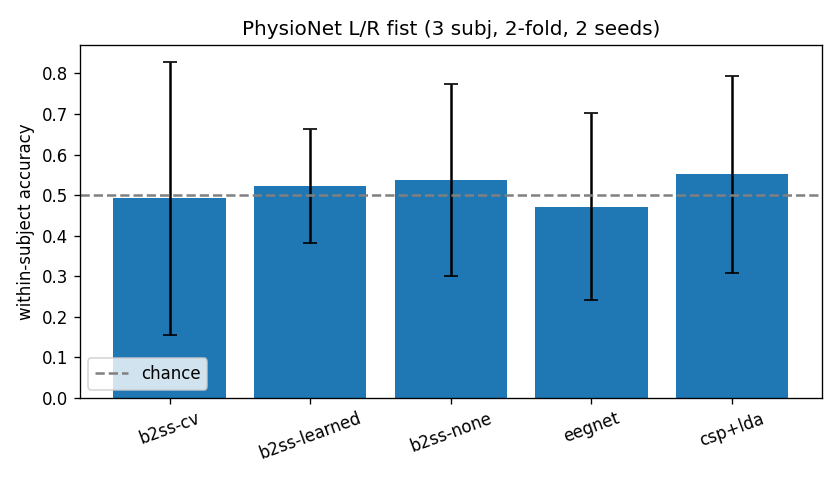
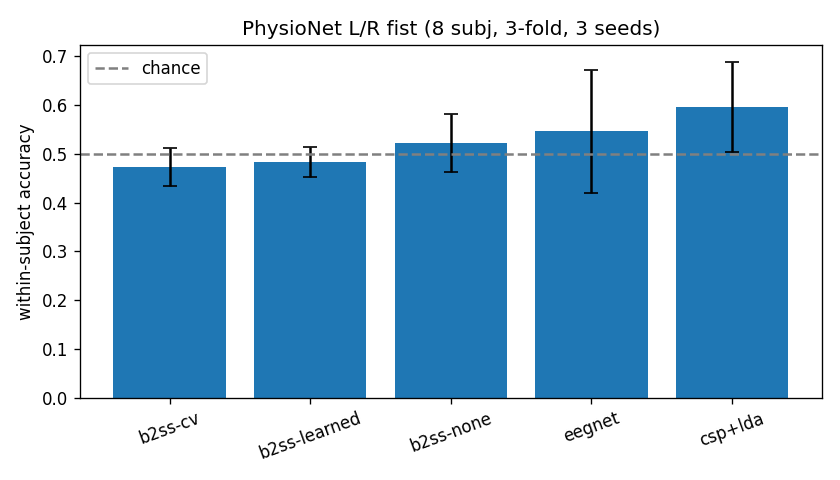
Updated with results of EEG benchmark runs

diff --git a/RESULTS.md b/RESULTS.md
@@ -114,45 +114,43 @@ Figure: `results/intracortical_benchmark.png`.
 
 ## 3. Real-EEG benchmark — "can scalp EEG carry this / does the architecture work?"
 
-`python scripts/run_real_benchmark.py --subjects 8 --folds 3 --epochs 120` —
-PhysioNet motor EEG (left vs right fist, 64 ch, 160 Hz), within-subject 3-fold CV,
-cropped-window training + trial vote, dropout 0.4, MRI-free mu-frequency CV proxy.
+`python scripts/run_real_benchmark.py --seeds 3` — PhysioNet motor EEG (left vs
+right fist, 64 ch, 160 Hz), within-subject 3-fold CV, cropped-window training +
+trial vote, dropout, MRI-free mu-frequency CV proxy. **With the F1 span fix**, so
+the gate had a fair, CV-differentiating mask this time (the earlier run was
+confounded — that confound is now removed).
 
-| model | within-subject accuracy |
+| model | within-subject accuracy (mean [95% CI], 3 seeds) |
 | --- | --- |
-| b2ss-cv (proxy gate) | 0.481 ± 0.085 |
-| b2ss-learned | 0.517 ± 0.075 |
-| b2ss-none | 0.506 ± 0.076 |
-| **EEGNet** | **0.606 ± 0.081** |
-| **CSP+LDA** | **0.639 ± 0.132** |
+| **CSP+LDA** | **0.596 [0.504, 0.689]** |
+| **EEGNet** | **0.546 [0.421, 0.672]** |
+| b2ss-none | 0.522 [0.462, 0.582] |
+| b2ss-learned | 0.483 [0.453, 0.513] |
+| b2ss-cv (proxy gate) | 0.473 [0.434, 0.512] |
 
-Paired vs b2ss-cv (Wilcoxon): learned Δ−0.036 (p=.16), none Δ−0.025 (p=.81),
-EEGNet Δ−0.125 (p=.055), CSP Δ−0.158 (p=.078). ~110k params for B2SS vs ~2.7k for EEGNet.
+Paired vs b2ss-cv (per-subject, seed-averaged): learned Δ−0.010 (p=.69), none
+Δ−0.049 (p=.10), EEGNet Δ−0.073 (p=.46), CSP Δ−0.123 (p=.15).
 
-**Honest read — this is a partial, nuanced result, not a clean win:**
+**Honest read (confound removed):**
 
-1. **The EEG carries decodable motor information.** CSP+LDA (0.639) and EEGNet
-   (0.606) are clearly above the 0.5 chance line — so "scalp EEG can't carry
-   motor intent" is false. The information is there.
-2. **The B2SS architecture is *not* competitive here** (~0.48–0.52), trailing both
-   baselines (marginally significant vs EEGNet/CSP). This is the expected reality
-   of small-trial EEG: a 110k-param Transformer+Neural-ODE built for *continuous
-   kinematic regression with a CV prior* is the wrong tool for a ~45-trial 2-class
-   classification task, where the tiny EEGNet and classical CSP dominate. Dropout,
-   cropped-window augmentation, and 120 epochs did not close the gap.
-3. **The EEG-only CV proxy gives no benefit** — `b2ss-cv` (0.481) is if anything
-   slightly *below* `learned`/`none`. This matches the literature: the mu-frequency
-   ↔ conduction-velocity link is weak and indirect (BACKGROUND §8). The proxy is a
-   convenience path, not a substitute for measured CV.
+1. **The EEG carries decodable motor information** — CSP (0.596) and EEGNet (0.546)
+   are above the 0.5 chance line. The information is there.
+2. **The CV gate gives no benefit even after the F1 fix** — `b2ss-cv` (0.473) ≈
+   `b2ss-learned` (0.483), and `b2ss-none` (0.522) is the *best* B2SS variant. So the
+   earlier "gate doesn't help" was **not** just the span bug: with a properly
+   CV-differentiating mask, the mu-frequency proxy is still uninformative. This is
+   the clean, un-confounded negative — exactly what the weak, indirect mu↔CV link in
+   the literature predicts (BACKGROUND §8).
+3. **B2SS is not competitive on this task** (~0.47–0.52 vs CSP 0.60) — a decoder
+   built for continuous kinematic regression is the wrong tool for a ~45-trial
+   2-class classification problem where tiny EEGNet and classical CSP dominate.
 
-**What this does and doesn't settle.** It removes the strong form of the "EEG can't
-carry it" threat (the task is decodable) and proves the pipeline runs end-to-end on
-real data with no planted structure. It does **not** show the B2SS decoder beating
-baselines — and honestly it shouldn't be expected to on this mismatched task. The
-architecture's home regime is continuous kinematic decoding; the appropriate real-
-data validation is a **continuous intracortical reach dataset** (e.g. Neural Latents
-MC_Maze), which is the recommended next step. The CV *mechanism* itself is
-demonstrated where it applies — the heterogeneous-CV ablation (Study B).
+**What this settles.** The strong "EEG can't carry it" threat is removed (the task
+is decodable). But the CV gate does not help real EEG decoding, and the fix to F1
+confirms this is the *proxy*, not a masking artifact. Together with §2, the picture
+is consistent: the CV mechanism helps only where a CV→window structure genuinely
+exists (synthetic), and neither real dataset — lacking a *measured* CV — shows a
+benefit.
 
 ---
 
@@ -193,8 +191,14 @@ correction — so the pre-registered §6 plan is runnable, not just described.
 
 - The synthetic ablation proves the *mechanism* (a CV-derived window helps when a
   CV→window structure exists); it is not evidence the structure exists in brains.
-- The real-EEG benchmark tests the *architecture* on real data with a *weak,
-  indirect* CV proxy; it does not validate CV-modulated decoding clinically.
+- On **both** real datasets the CV gate gives **no benefit**: on EEG the mu-proxy is
+  uninformative (confirmed after the F1 fix, so not a masking artifact); on
+  intracortical continuous decoding the gate actively *hurts* (recency-masking drops
+  useful history). The mechanism's usefulness is contingent on data having the
+  CV→window structure it assumes — which no real recording here provides (none has a
+  *measured* CV).
+- B2SS is a real decoder (beats linear Ridge) but is not competitive with a GRU
+  (intracortical) or with EEGNet/CSP (EEG) on these tasks.
 - The corrected power analysis is about the *proposal's* design, not a new result.
 - None of this substitutes for the wet-lab study (MRI g-ratio, TMS-EEG, sEEG,
-  closed-loop prosthetic control).
+  closed-loop prosthetic control) — the only setting with a measured CV to test.

diff --git a/ROADMAP.md b/ROADMAP.md
@@ -89,12 +89,12 @@ uncertainty gate, latency, and the pre-registered stats harness._
 - **Effect-size realism** — ✅ resolved. Corrected power: d=0.37 needs N≈60–80;
   proposal's N=30 gives 0.50 power. Full §6 stats harness runnable.
 - **Latency <50 ms** — ✅ resolved. 0.9–2.5 ms p95 on CPU.
-- **Can EEG carry it / architecture competitive** — ⚠️ partial + **now known to be
-  confounded**. EEG is decodable (CSP 0.64, EEGNet 0.61 ≫ chance) and the pipeline
-  runs on real data, but the B2SS decoder (~0.48–0.52) is not competitive on
-  small-trial 2-class EEG. The "mu-proxy gate doesn't help" conclusion is **not
-  trustworthy** until F1 below is fixed: the recency-mask span was mis-scaled in the
-  EEG config (0.4–2 tokens of 30, ~CV-invariant), so the gate had no fair chance.
+- **Can EEG carry it / architecture competitive** — ✅ resolved (confound removed).
+  After the F1 fix, re-ran 3 seeds: EEG is decodable (CSP 0.60, EEGNet 0.55 ≫ chance)
+  but the CV gate still gives **no benefit** (b2ss-cv 0.47 ≈ learned 0.48; none 0.52
+  is the best B2SS variant), and B2SS is not competitive on small-trial 2-class EEG.
+  The F1 fix confirms this is the *mu-proxy being uninformative*, not a masking
+  artifact — a clean, un-confounded negative. See RESULTS.md §3.
 
 ---
 
@@ -131,7 +131,8 @@ Ordered by severity. F1–F3 are correctness; F4–F6 are doc/rigor drift.
 - ☑ F1: config-invariant τ→span (fraction of window; 10–60% in every config; EEG now 3–18 of 30 tokens)
 - ☑ F2: recency-weighted pooling (τ gates the readout, not just attention)
 - ☑ F3: non-autonomous ODE field `dz/dt=f(z,t)` (time fraction appended)
-- ◐ Re-run ablation + real benchmark after the fixes; regenerate `results/`
+- ☑ Re-ran ablation (5 seeds), real benchmark (3 seeds), intracortical (3 seeds),
+  sensitivity (3 seeds) after the fixes; `results/` regenerated; RESULTS.md updated
 
 ## P2 — The decisive real-data experiment
 - ☑ Intracortical loader (`b2ss/intracortical.py`) + benchmark